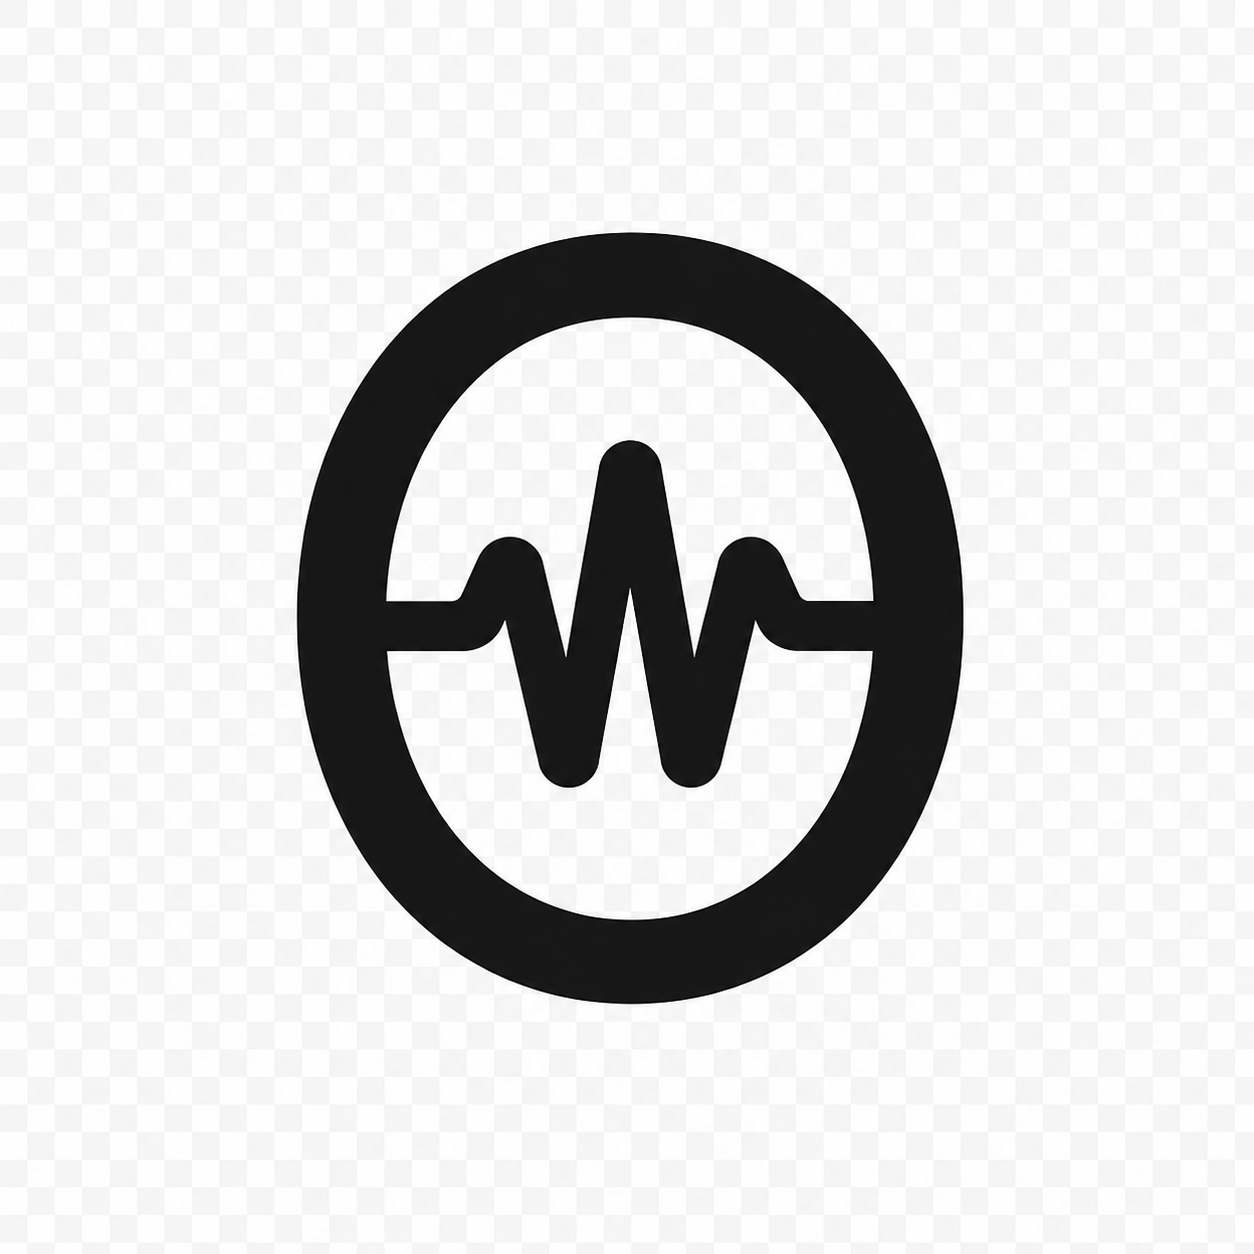
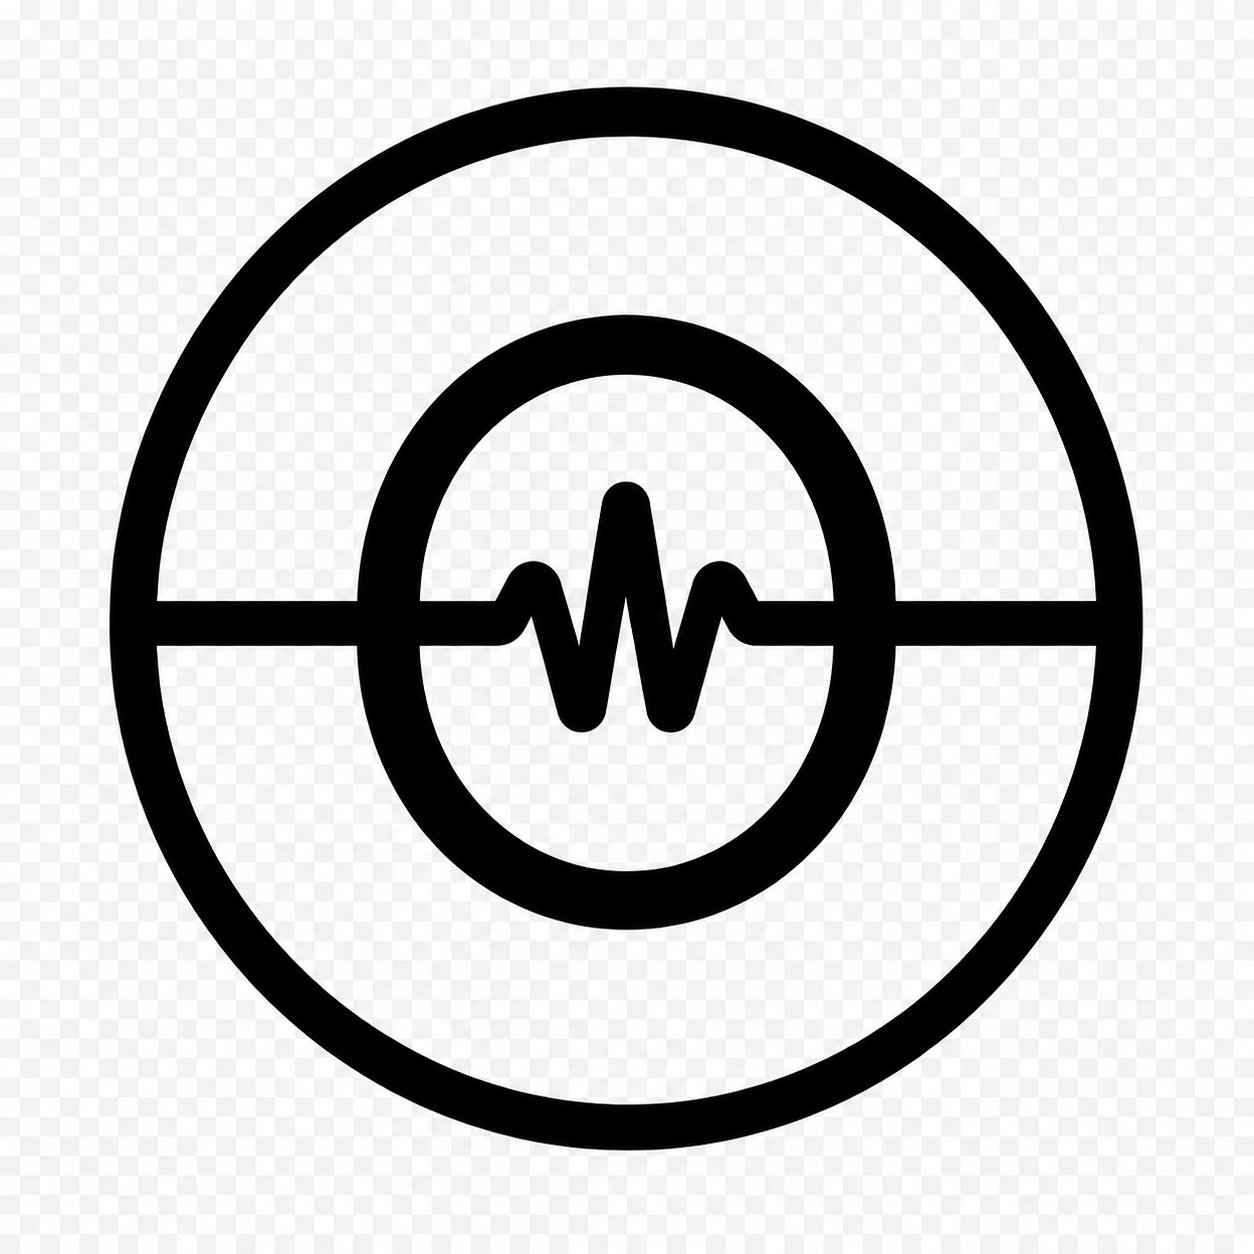
remove emboss

Changed region(s): [[0.0622, 0.0622, 0.933, 0.933]]

diff --git a/index.html b/index.html
@@ -510,16 +510,6 @@ let domainIndex = 0;
         float sdfContrib = strokeRef + edgeBand * 0.65 + outerHalo * 0.12;
         col += sdfContrib * uvFade * imageClarity * light * 0.68;
 
-        // ── Emboss: subtle engraved relief, light from top-left ────────────────
-        float bevelEps = 0.0045;
-        vec2  bevelDir = vec2(-bevelEps, bevelEps);
-        float sdfHi = texture2D(uLogo, clamp(safeClean + bevelDir, 0.001, 0.999)).r;
-        float sdfLo = texture2D(uLogo, clamp(safeClean - bevelDir, 0.001, 0.999)).r;
-        float bevel = (sdfHi - sdfLo) * 5.0;
-
-        col += max(bevel, 0.0)  * vec3(0.40, 0.38, 0.34)   * strokeRef * uvFade * imageClarity * 0.5;
-        col -= max(-bevel, 0.0) * vec3(0.020, 0.020, 0.022) * strokeRef * uvFade * 0.7;
-
         // ── Luminescent breathing glow (SDF-driven edge) ──────────────────────
         float breathRaw = sin(uTime * 0.285);
         float breath    = pow(breathRaw * 0.5 + 0.5, 1.6);